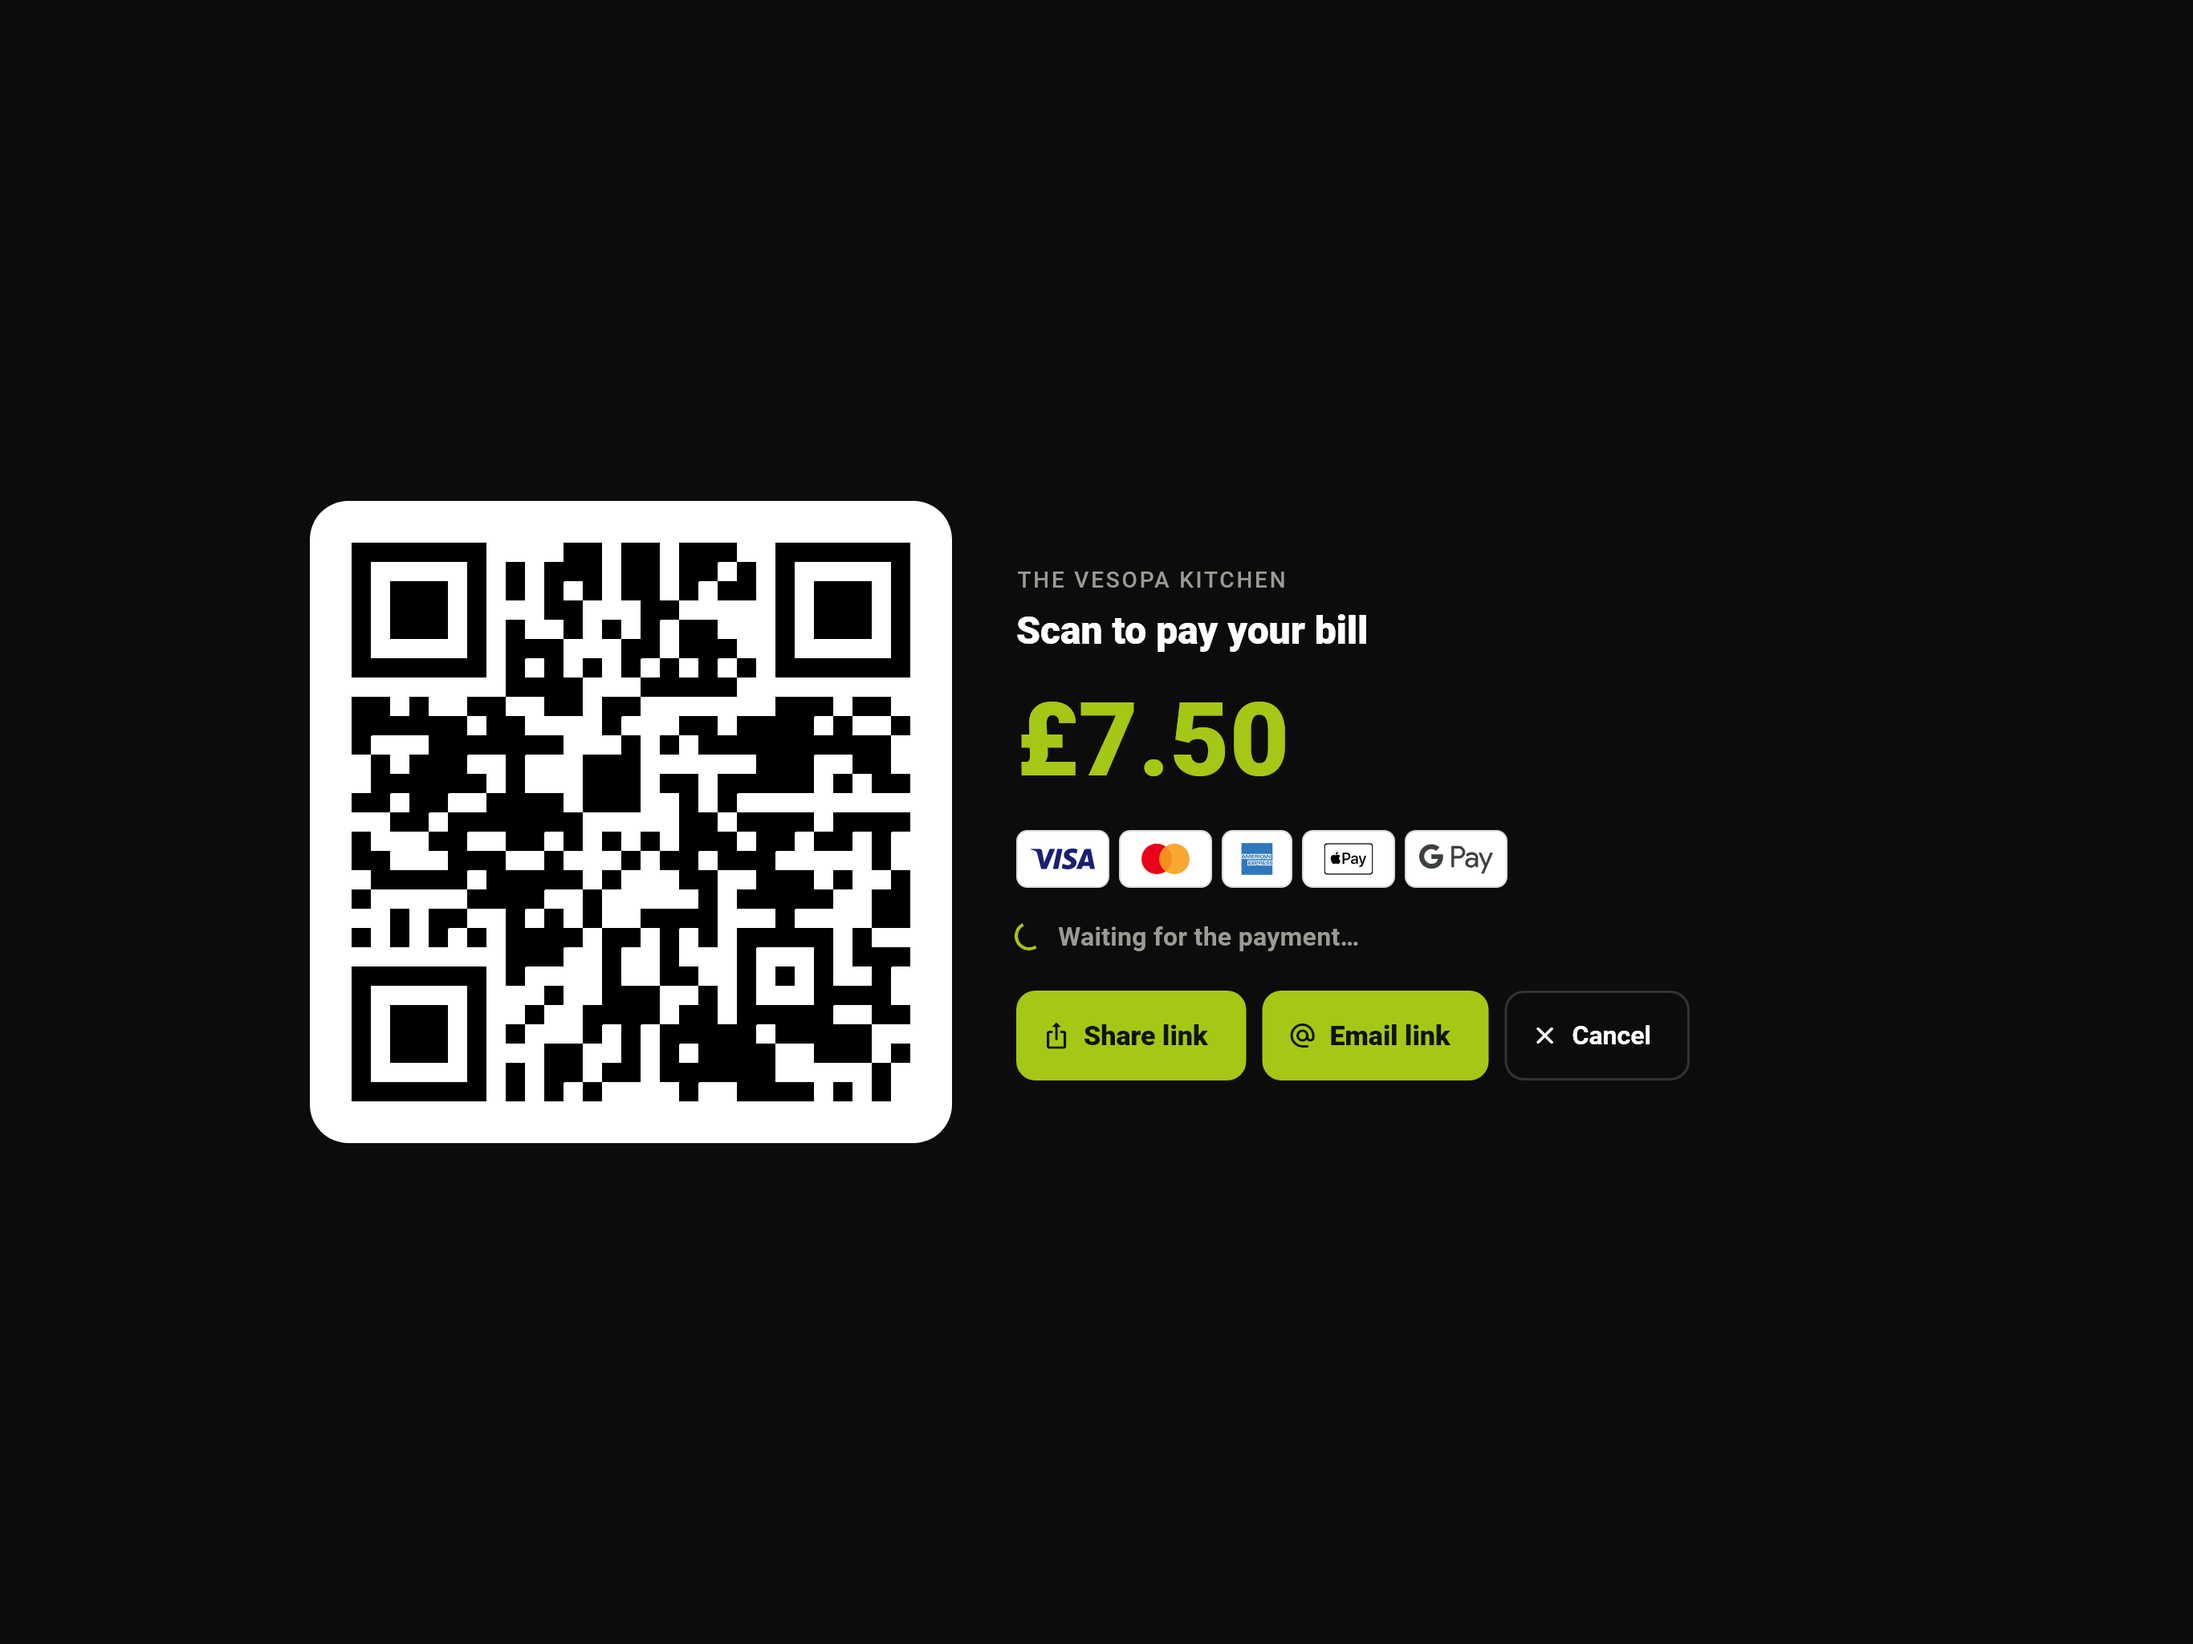
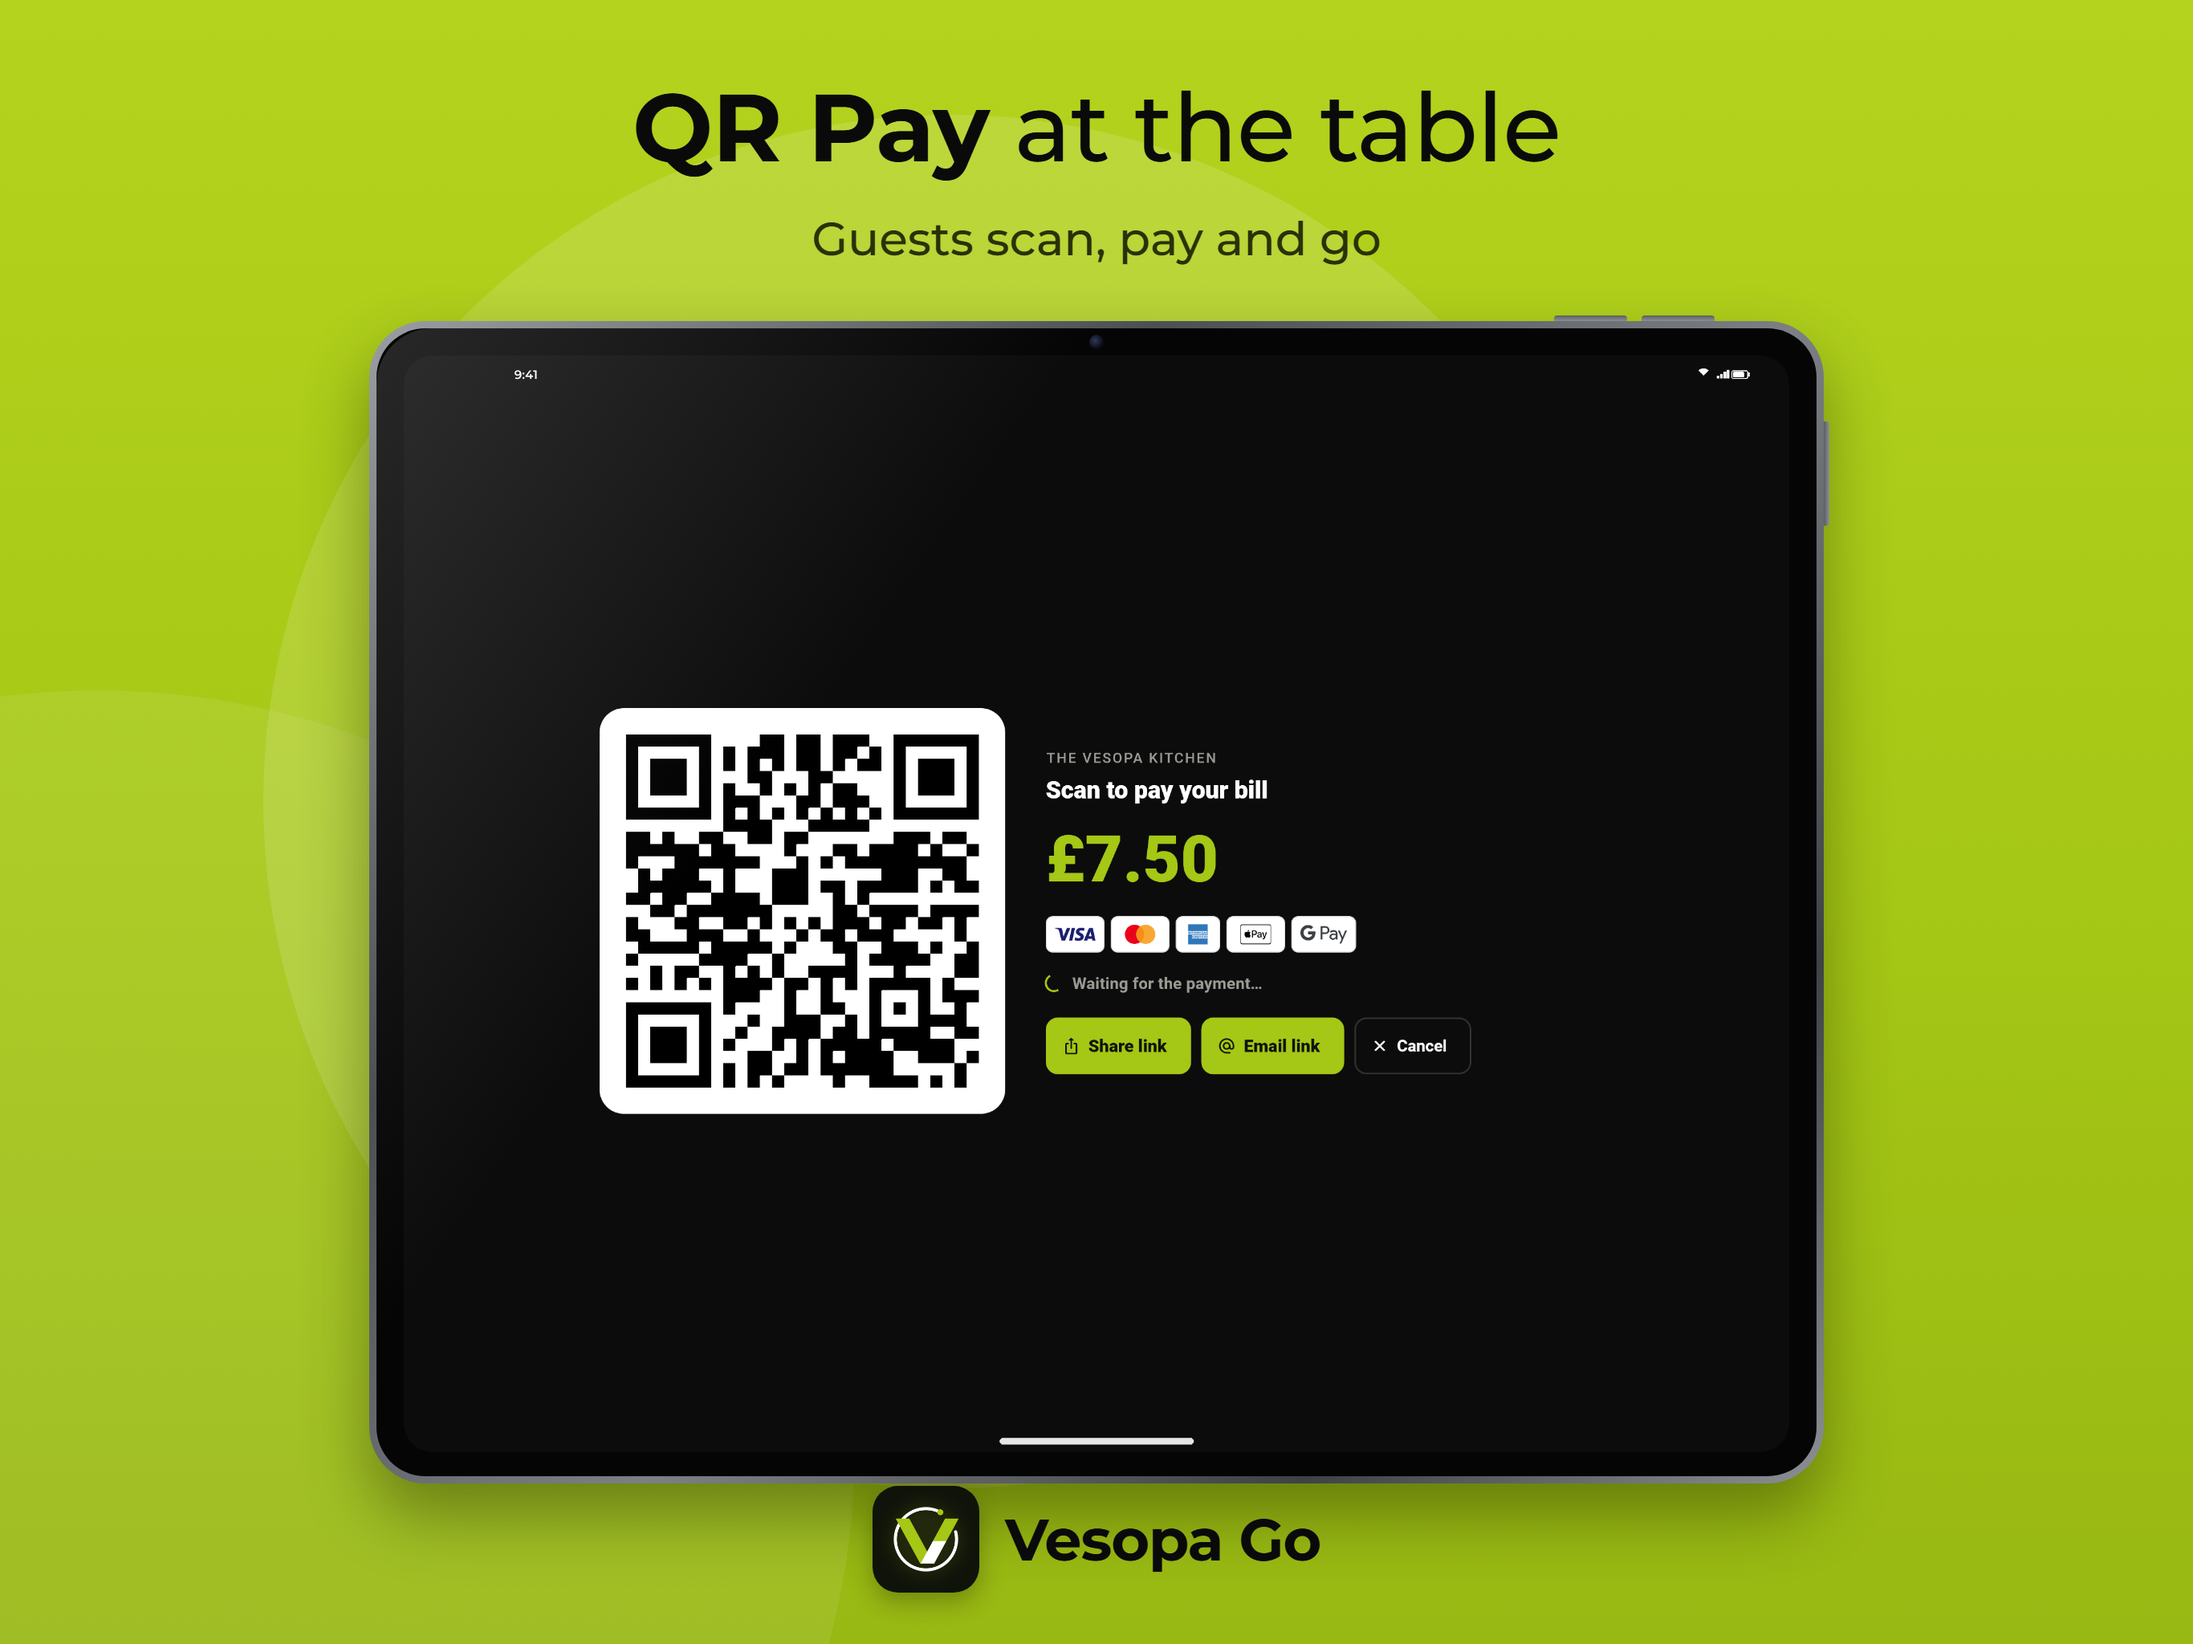
Vesopa Go App Store iPad screenshots: the framed pictures in store/screenshots/ipad-13, where the App Store page upload takes them; the plain iPad screens they are drawn from move to store/raw-screens-ipad-13

diff --git a/vesopa_go/tool/make_store_shots.py b/vesopa_go/tool/make_store_shots.py
@@ -107,7 +107,10 @@ def screen_file(src, shot, tablet=False):
     """The screenshot, with product photos on their tiles and any staff
     initials replaced by the Vesopa V."""
     from PIL import Image
-    path = GO / "store" / "screenshots" / src / f"{shot}.png"
+    # The iPad's plain screens are kept apart: store/screenshots/ipad-13 holds
+    # the framed pictures App Store Connect takes (app_store_connect.py store).
+    raw = GO / "store" / f"raw-screens-{src}"
+    path = (raw if raw.is_dir() else GO / "store" / "screenshots" / src) / f"{shot}.png"
     im = Image.open(path).convert("RGBA")
     for args in PHOTOS.get((src, shot), []):
         im = _photo_tile(im, *args)
